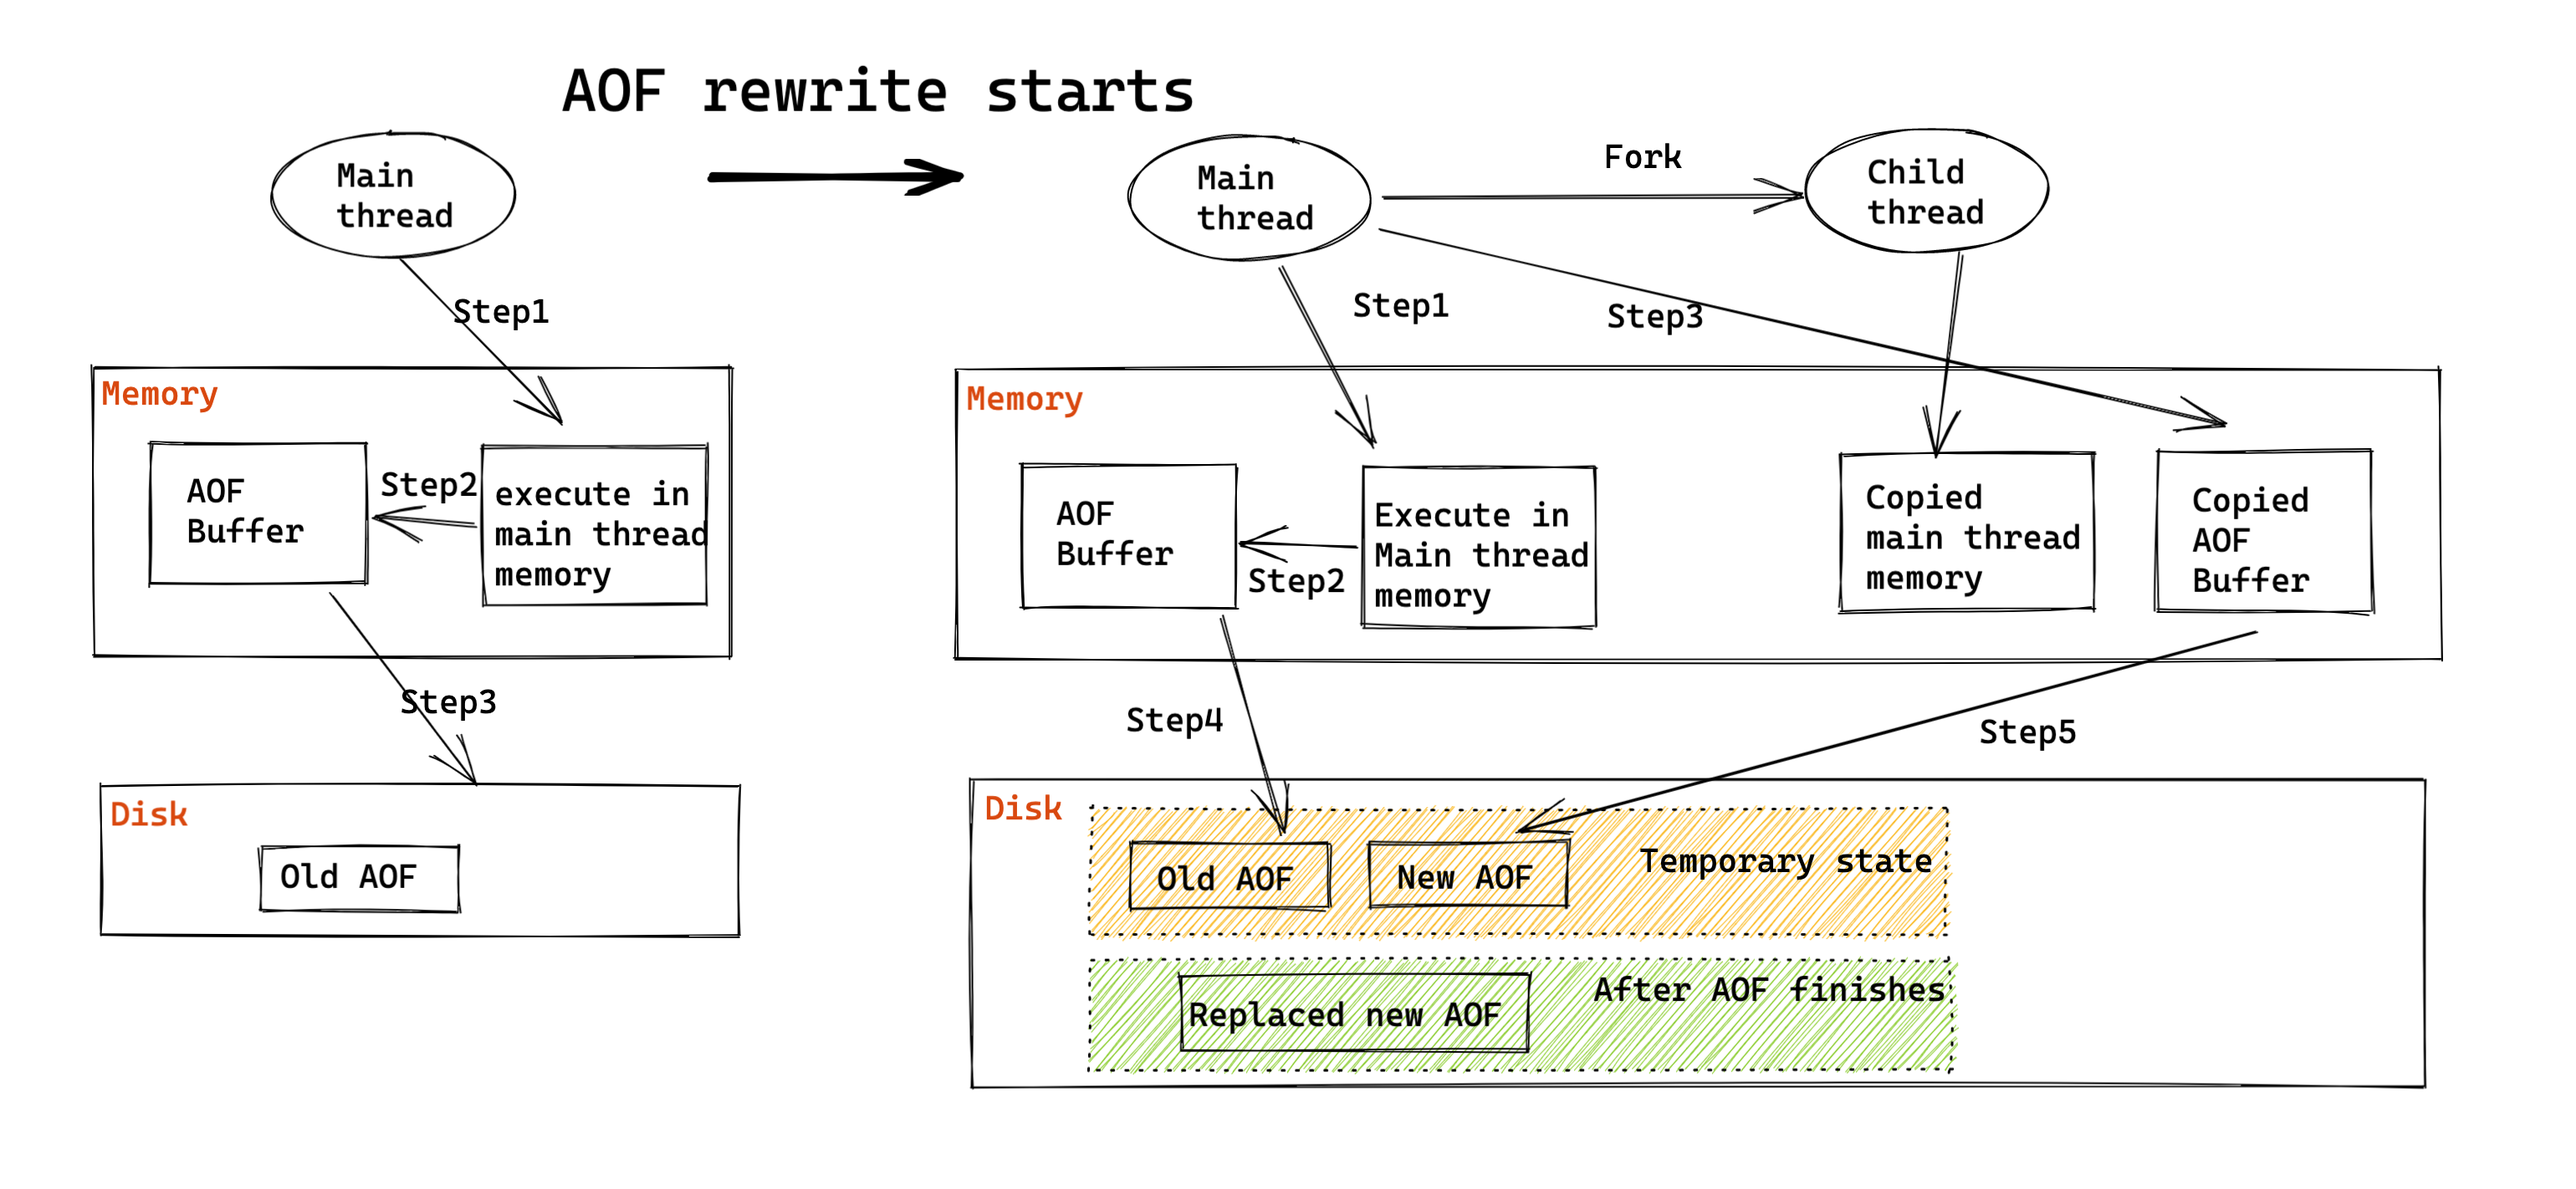
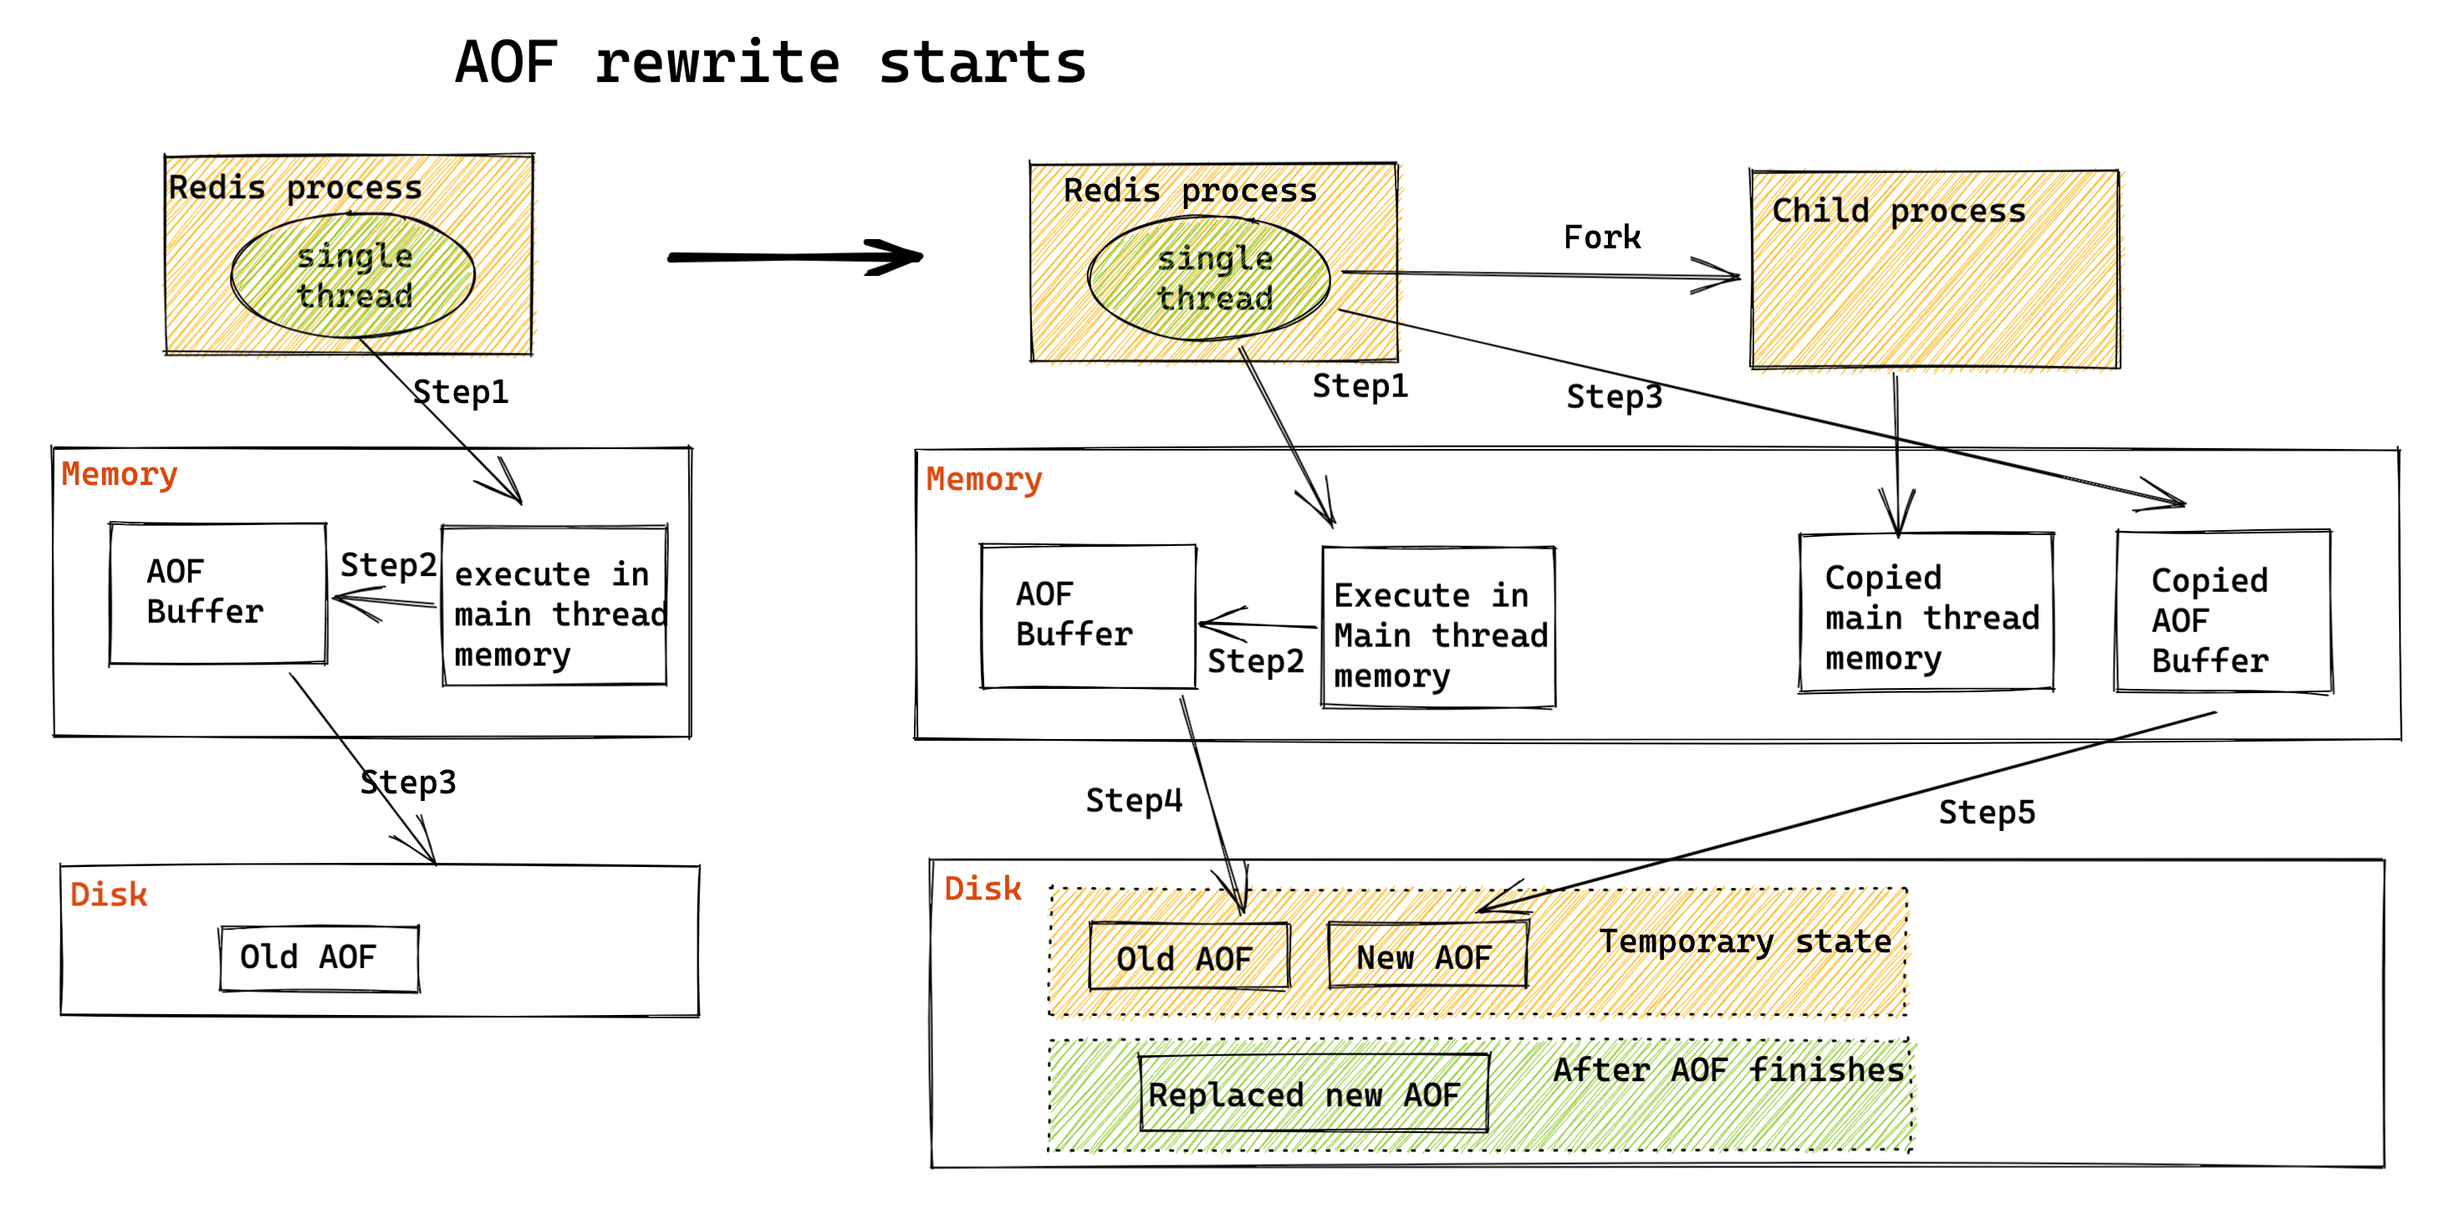
refactor

diff --git a/cache/redisAcid.md b/cache/redisAcid.md
@@ -19,22 +19,10 @@
 * [https://redis.io/topics/persistence](https://redis.io/topics/persistence)
 
 ## RDB
+* Command: SAVE vs BGSAVE. BGSave will fork a child process to create RDB file, avoiding blocking main thread.
+* COW (Copy-On-Write)
 
-* Command: SAVE vs BGSAVE. Whether a child process is forked to create RDB file. 
-* BGSAVE - Automatic save condition
-  * saveparam format: save seconds changes
-  * dirty attribute: How many databse operations have been performed after the last time.
-  * lastsave: A unix timestamp - the last time the server executes SAVE or BGSAVE. 
-
-```text
-def serverCron():
-    for saveParam in server.saveparams:
-        save_internal = unixtime_now() - server.lastsave
-
-        if server.dirty >= saveparam.changes 
-            and save_internal > saveparams.seconds:
-                BGSAVE()
-```
+![](../.gitbook/assets/redis_snapchat_process.png)
 
 ## AOF (Append-only File)
 
